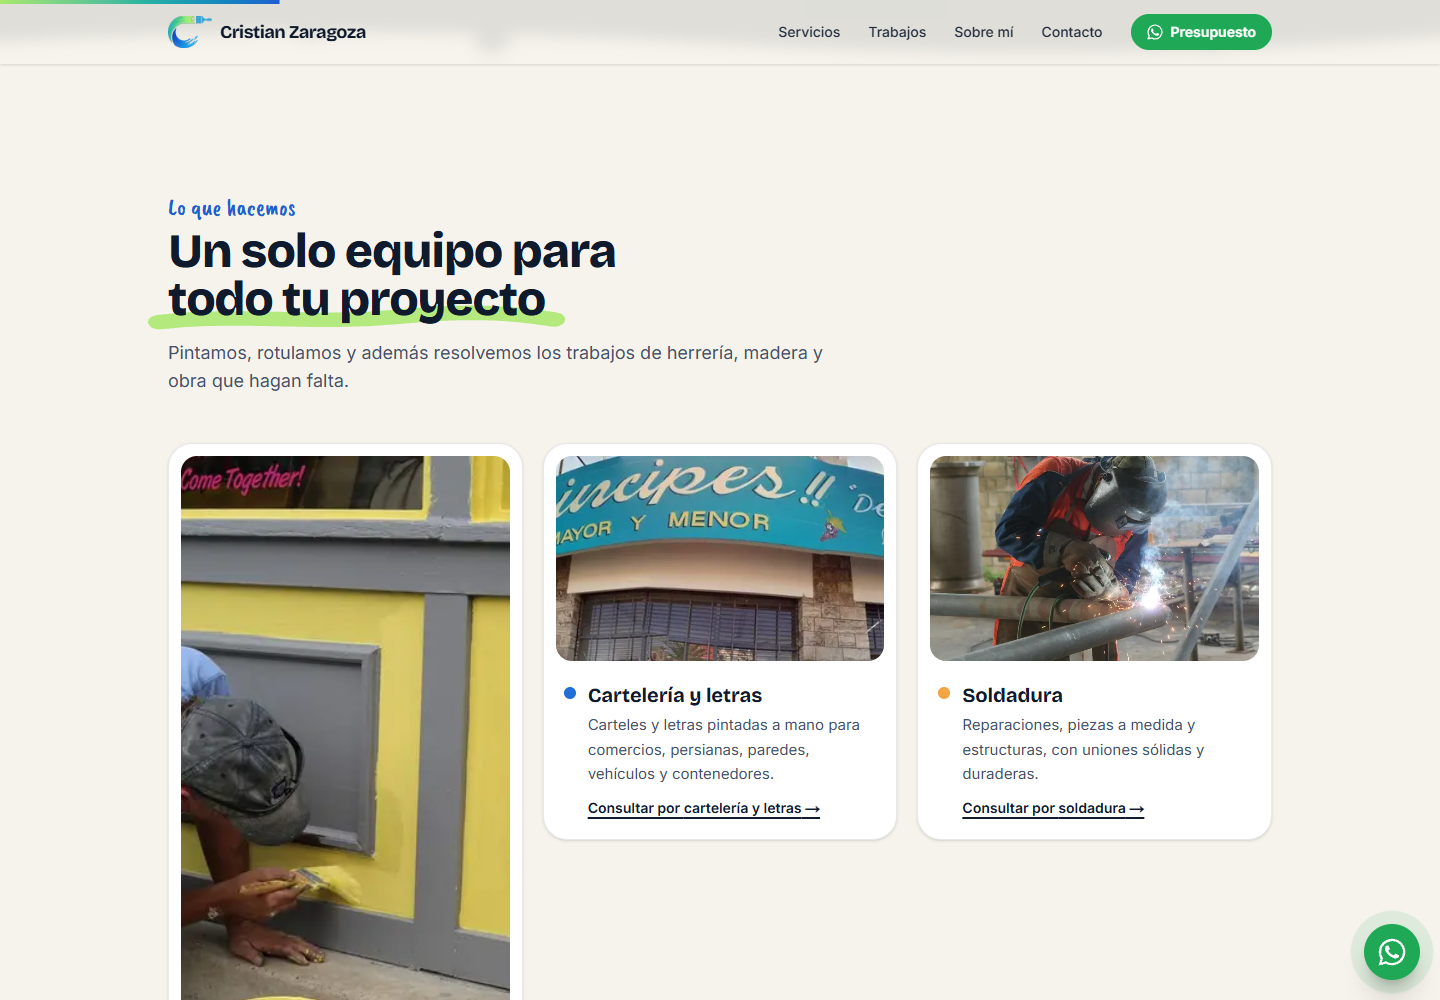
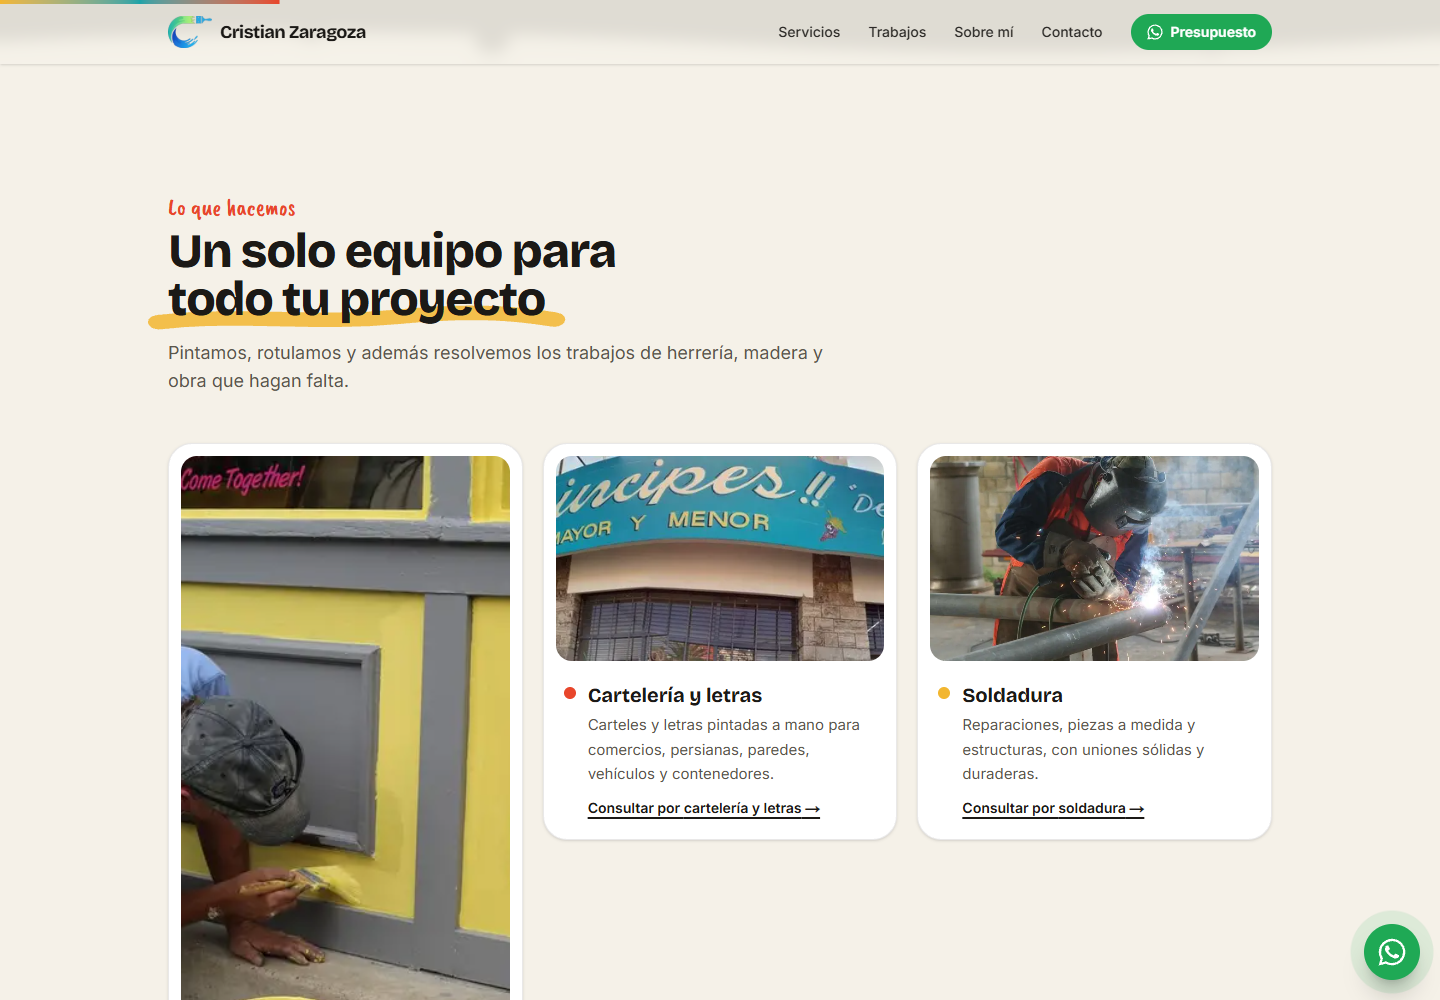
Paleta propia sacada de sus trabajos
- Reemplaza los colores del logo (azul/lima) por los de sus carteles reales:
  esmalte negro, pared hueso, bermellón, amarillo, turquesa y verde
- La portada usa de fondo la pared de Armus CrossFit en lugar de la foto de stock
- Se borran las fotos de stock que ya no se usan
- Imagen Open Graph y capturas del README actualizadas

diff --git a/components/Contacto.tsx b/components/Contacto.tsx
@@ -3,9 +3,9 @@ import { IconoFacebook, IconoInstagram, IconoUbicacion, IconoWhatsapp } from "./
 
 // Colores tomados de sus trabajos reales: pizzería Los 3 Nietos, taller Anchorena, cartel Los Príncipes
 const pasos = [
-  { n: "01", color: "#e8462b", nombre: "Naranja pizzería", titulo: "Escribinos", texto: "Contanos por WhatsApp qué necesitás y, si podés, mandá una foto del lugar." },
-  { n: "02", color: "#f2b630", nombre: "Amarillo taller", titulo: "Presupuesto sin cargo", texto: "Te pasamos el presupuesto sin costo." },
-  { n: "03", color: "#1ba3a8", nombre: "Turquesa cartel", titulo: "Manos a la obra", texto: "Coordinamos el día y nos ponemos a pintar." },
+  { n: "01", color: "var(--color-bermellon)", nombre: "Naranja pizzería", titulo: "Escribinos", texto: "Contanos por WhatsApp qué necesitás y, si podés, mandá una foto del lugar." },
+  { n: "02", color: "var(--color-amarillo)", nombre: "Amarillo taller", titulo: "Presupuesto sin cargo", texto: "Te pasamos el presupuesto sin costo." },
+  { n: "03", color: "var(--color-turquesa)", nombre: "Turquesa cartel", titulo: "Manos a la obra", texto: "Coordinamos el día y nos ponemos a pintar." },
 ];
 
 /** Cinta de pintor pegando el cartel a la pared */
@@ -24,14 +24,14 @@ export default function Contacto() {
         <div data-reveal className="relative">
           <Cinta className="-left-3 -top-3 -rotate-12" />
           <Cinta className="-right-3 -top-3 rotate-12" />
-          <div className="cartel-pintado relative -rotate-1 bg-[#fbf6e9] p-3 shadow-[0_18px_40px_-18px_rgb(15_27_45/0.45)]">
+          <div className="cartel-pintado relative -rotate-1 bg-[#fbf6e9] p-3 shadow-[0_18px_40px_-18px_rgb(27_25_22/0.45)]">
             <div className="border-[3px] border-tinta p-1.5">
               <div className="border border-tinta px-6 py-10 text-center sm:px-10 sm:py-12">
-                <p className="font-pincel text-3xl text-[#e8462b] sm:text-4xl">¿Arrancamos con tu proyecto?</p>
+                <p className="font-pincel text-3xl text-[var(--color-bermellon)] sm:text-4xl">¿Arrancamos con tu proyecto?</p>
                 <h2 className="mt-2 font-display text-4xl font-extrabold uppercase leading-none tracking-tight text-tinta sm:text-6xl">
                   Pedí tu presupuesto
                 </h2>
-                <p className="mt-3 inline-block -rotate-2 bg-[#f2b630] px-4 py-1 font-display text-lg font-extrabold uppercase tracking-wide text-tinta">
+                <p className="mt-3 inline-block -rotate-2 bg-[var(--color-amarillo)] px-4 py-1 font-display text-lg font-extrabold uppercase tracking-wide text-tinta">
                   sin cargo
                 </p>
 
@@ -51,10 +51,10 @@ export default function Contacto() {
                 <div className="mx-auto mt-8 h-px w-2/3 bg-tinta/20" aria-hidden="true" />
 
                 <div className="mt-6 flex flex-wrap items-center justify-center gap-x-6 gap-y-3 text-tinta">
-                  <a href={cliente.instagram} target="_blank" rel="noopener noreferrer" className="inline-flex items-center gap-2 font-medium hover:text-[#e8462b]">
+                  <a href={cliente.instagram} target="_blank" rel="noopener noreferrer" className="inline-flex items-center gap-2 font-medium hover:text-[var(--color-bermellon)]">
                     <IconoInstagram className="h-5 w-5" /> {cliente.instagramUsuario}
                   </a>
-                  <a href={cliente.facebook} target="_blank" rel="noopener noreferrer" className="inline-flex items-center gap-2 font-medium hover:text-[#e8462b]">
+                  <a href={cliente.facebook} target="_blank" rel="noopener noreferrer" className="inline-flex items-center gap-2 font-medium hover:text-[var(--color-bermellon)]">
                     <IconoFacebook className="h-5 w-5" /> Facebook
                   </a>
                   <span className="inline-flex items-center gap-2 font-medium">
@@ -68,14 +68,14 @@ export default function Contacto() {
 
         {/* Los pasos como muestras de color de pinturería */}
         <div>
-          <p data-reveal className="font-pincel text-2xl text-[#e8462b]">Cómo trabajamos</p>
+          <p data-reveal className="font-pincel text-2xl text-[var(--color-bermellon)]">Cómo trabajamos</p>
           <ol className="mt-4 space-y-5">
             {pasos.map((p, i) => (
               <li
                 key={p.n}
                 data-reveal
                 style={{ ["--delay" as string]: `${150 + i * 140}ms`, rotate: `${[-1.2, 0.8, -0.5][i]}deg` }}
-                className="muestra flex overflow-hidden rounded-md bg-white shadow-[0_10px_24px_-14px_rgb(15_27_45/0.5)]"
+                className="muestra flex overflow-hidden rounded-md bg-white shadow-[0_10px_24px_-14px_rgb(27_25_22/0.5)]"
               >
                 <div className="muestra-color relative flex w-24 shrink-0 flex-col justify-between p-3 sm:w-28" style={{ background: p.color }}>
                   <span className="font-display text-2xl font-extrabold text-white/95">{p.n}</span>

diff --git a/components/Portada.tsx b/components/Portada.tsx
@@ -4,17 +4,17 @@ import { IconoUbicacion, IconoWhatsapp, Pincelada } from "./iconos";
 
 // Gotas en los colores del logo que flotan alrededor de la foto
 const gotas = [
-  { c: "var(--color-lima)", x: "-6%", y: "8%", s: 34, d: "0s" },
-  { c: "var(--color-celeste)", x: "92%", y: "18%", s: 24, d: "1.2s" },
+  { c: "var(--color-amarillo)", x: "-6%", y: "8%", s: 34, d: "0s" },
+  { c: "var(--color-turquesa)", x: "92%", y: "18%", s: 24, d: "1.2s" },
   { c: "var(--color-turquesa)", x: "88%", y: "82%", s: 40, d: "2.1s" },
-  { c: "var(--color-azul)", x: "-4%", y: "70%", s: 20, d: "0.6s" },
+  { c: "var(--color-bermellon)", x: "-4%", y: "70%", s: 20, d: "0.6s" },
 ];
 
 export default function Portada() {
   return (
     <section id="inicio" className="relative isolate overflow-hidden bg-tinta pb-28 pt-28 text-white sm:pt-32 lg:pb-36">
       <Image
-        src="/fotos/fondoservicios.webp"
+        src="/fotos/paredArmus.webp"
         alt=""
         fill
         priority
@@ -26,18 +26,18 @@ export default function Portada() {
       <div className="mx-auto grid max-w-6xl items-center gap-14 px-4 sm:px-6 lg:grid-cols-[1.15fr_0.85fr]">
         <div>
           <p data-reveal className="visible mb-5 inline-flex items-center gap-2 rounded-full border border-white/15 bg-white/5 px-3 py-1 text-sm text-white/80">
-            <IconoUbicacion className="h-4 w-4 text-lima" /> {cliente.oficio} en {cliente.zona}
+            <IconoUbicacion className="h-4 w-4 text-amarillo" /> {cliente.oficio} en {cliente.zona}
           </p>
 
           <h1 className="font-display text-4xl font-extrabold leading-[1.05] tracking-tight sm:text-6xl">
-            <span className="letras-a-mano block font-pincel text-6xl font-normal text-lima sm:text-8xl">
+            <span className="letras-a-mano block font-pincel text-6xl font-normal text-amarillo sm:text-8xl">
               {cliente.nombre}
             </span>
             <span className="mt-2 block">
               Pintor{" "}
               <span className="pincelada">
                 profesional
-                <Pincelada color="var(--color-azul)" />
+                <Pincelada color="var(--color-bermellon)" />
               </span>
             </span>
           </h1>
@@ -91,7 +91,7 @@ export default function Portada() {
               <path d="M12 0C12 0 0 14 0 21a12 12 0 0 0 24 0C24 14 12 0 12 0z" fill={g.c} />
             </svg>
           ))}
-          <figure className="rodillo rotate-2 rounded-3xl shadow-2xl shadow-black/50" style={{ ["--rodillo" as string]: "var(--color-lima)" }}>
+          <figure className="rodillo rotate-2 rounded-3xl shadow-2xl shadow-black/50" style={{ ["--rodillo" as string]: "var(--color-amarillo)" }}>
             <Image
               src="/fotos/pintando.webp"
               alt="Cristian delineando letras gigantes sobre la pared de Armus CrossFit"
@@ -104,7 +104,7 @@ export default function Portada() {
           </figure>
           <figure
             className="rodillo absolute -bottom-10 -left-8 w-1/2 -rotate-3 rounded-2xl border-4 border-tinta shadow-xl sm:-left-14"
-            style={{ ["--rodillo" as string]: "var(--color-celeste)", ["--delay" as string]: "350ms" }}
+            style={{ ["--rodillo" as string]: "var(--color-turquesa)", ["--delay" as string]: "350ms" }}
           >
             <Image
               src="/fotos/pizzeria-sm.webp"

diff --git a/components/Galeria.tsx b/components/Galeria.tsx
@@ -5,7 +5,7 @@ import { useCallback, useEffect, useRef, useState } from "react";
 import { categorias, trabajos, type Categoria } from "@/lib/datos";
 import { IconoCerrar, IconoFlecha, Pincelada } from "./iconos";
 
-const coloresRodillo = ["var(--color-turquesa)", "var(--color-azul)", "var(--color-lima)", "var(--color-celeste)"];
+const coloresRodillo = ["var(--color-turquesa)", "var(--color-bermellon)", "var(--color-amarillo)", "var(--color-turquesa)"];
 
 export default function Galeria() {
   const [filtro, setFiltro] = useState<Categoria | "Todos">("Todos");
@@ -44,12 +44,12 @@ export default function Galeria() {
       <div className="mx-auto max-w-6xl px-4 sm:px-6">
         <div data-reveal className="flex flex-col justify-between gap-6 md:flex-row md:items-end">
           <div className="max-w-2xl">
-            <p className="font-pincel text-2xl text-azul">Trabajos realizados</p>
+            <p className="font-pincel text-2xl text-bermellon">Trabajos realizados</p>
             <h2 className="mt-1 font-display text-3xl font-extrabold tracking-tight sm:text-5xl">
               Paredes que{" "}
               <span className="pincelada">
                 venden solas
-                <Pincelada color="var(--color-celeste)" />
+                <Pincelada color="var(--color-turquesa)" />
               </span>
             </h2>
             <p className="mt-4 text-lg text-tinta-suave">
@@ -84,7 +84,7 @@ export default function Galeria() {
                 aria-label={`Ver en grande: ${t.titulo}`}
               >
                 <figure
-                  className="rodillo aspect-[4/3] rounded-2xl ring-azul ring-offset-2 ring-offset-pared group-focus-visible:ring-4"
+                  className="rodillo aspect-[4/3] rounded-2xl ring-bermellon ring-offset-2 ring-offset-pared group-focus-visible:ring-4"
                   style={{
                     ["--rodillo" as string]: coloresRodillo[i % coloresRodillo.length],
                     ["--delay" as string]: `${(i % 3) * 120}ms`,
@@ -99,7 +99,7 @@ export default function Galeria() {
                     className="h-full w-full rounded-2xl object-cover transition duration-700 group-hover:scale-105"
                   />
                   <figcaption className="absolute inset-x-0 bottom-0 z-[1] rounded-b-2xl bg-gradient-to-t from-tinta/85 to-transparent p-4 pt-10 text-white">
-                    <span className="block text-xs uppercase tracking-wider text-lima">{t.categoria}</span>
+                    <span className="block text-xs uppercase tracking-wider text-amarillo">{t.categoria}</span>
                     <span className="font-display font-semibold">{t.titulo}</span>
                   </figcaption>
                 </figure>

diff --git a/app/globals.css b/app/globals.css
@@ -1,15 +1,17 @@
 @import "tailwindcss";
 
-/* Paleta sacada del logo de Cristian: pincel azul, trazo verde-turquesa */
+/* Paleta sacada de sus trabajos reales: esmalte negro de cartel, pared hueso,
+   el naranja de la pizzería, el amarillo del taller Anchorena, el turquesa de Los Príncipes
+   y el verde de la verdulería */
 @theme {
-  --color-pared: #f6f3ec;
-  --color-pared-2: #ece7dc;
-  --color-tinta: #0f1b2d;
-  --color-tinta-suave: #44506a;
-  --color-azul: #1f5fd0;
-  --color-celeste: #22b0e6;
-  --color-turquesa: #2bb5a0;
-  --color-lima: #a8e86b;
+  --color-pared: #f5f1e8;
+  --color-pared-2: #ebe4d6;
+  --color-tinta: #1b1916;
+  --color-tinta-suave: #5a554c;
+  --color-bermellon: #e8462b;
+  --color-amarillo: #f2b630;
+  --color-turquesa: #1ba3a8;
+  --color-verde: #9cbf3b;
   --color-whatsapp: #1fa855;
 
   --font-display: var(--font-bricolage), ui-sans-serif, system-ui, sans-serif;
@@ -29,7 +31,7 @@ body {
 }
 
 ::selection {
-  background: var(--color-lima);
+  background: var(--color-amarillo);
   color: var(--color-tinta);
 }
 
@@ -206,8 +208,8 @@ body {
   inset: 0;
   pointer-events: none;
   background:
-    repeating-linear-gradient(90deg, rgb(15 27 45 / 0.018) 0 3px, transparent 3px 11px),
-    linear-gradient(180deg, rgb(255 255 255 / 0.6), transparent 35%, rgb(15 27 45 / 0.03) 70%, transparent);
+    repeating-linear-gradient(90deg, rgb(27 25 22 / 0.018) 0 3px, transparent 3px 11px),
+    linear-gradient(180deg, rgb(255 255 255 / 0.6), transparent 35%, rgb(27 25 22 / 0.03) 70%, transparent);
 }
 
 /* ---------- Muestras de color: la pintura baja y llena la muestra ---------- */

diff --git a/components/SobreMi.tsx b/components/SobreMi.tsx
@@ -6,7 +6,7 @@ export default function SobreMi() {
   return (
     <section id="sobre-mi" className="mx-auto grid max-w-6xl items-center gap-12 px-4 py-20 sm:px-6 sm:py-28 lg:grid-cols-2">
       <div className="relative order-2 lg:order-1">
-        <figure className="rodillo rounded-3xl" style={{ ["--rodillo" as string]: "var(--color-azul)" }}>
+        <figure className="rodillo rounded-3xl" style={{ ["--rodillo" as string]: "var(--color-bermellon)" }}>
           <Image
             src="/fotos/pareduno.webp"
             alt="Cristian pintando el mural de Espacio Uno"
@@ -18,7 +18,7 @@ export default function SobreMi() {
         </figure>
         <div
           data-reveal
-          className="absolute -bottom-6 right-4 rotate-[-4deg] rounded-2xl bg-lima px-5 py-3 font-pincel text-2xl text-tinta shadow-lg sm:right-8"
+          className="absolute -bottom-6 right-4 rotate-[-4deg] rounded-2xl bg-amarillo px-5 py-3 font-pincel text-2xl text-tinta shadow-lg sm:right-8"
           style={{ ["--delay" as string]: "700ms" }}
         >
           Tradición familiar
@@ -26,7 +26,7 @@ export default function SobreMi() {
       </div>
 
       <div data-reveal className="order-1 lg:order-2">
-        <p className="font-pincel text-2xl text-azul">Sobre mí</p>
+        <p className="font-pincel text-2xl text-bermellon">Sobre mí</p>
         <h2 className="mt-1 font-display text-3xl font-extrabold tracking-tight sm:text-5xl">
           Toda una vida entre{" "}
           <span className="pincelada">

diff --git a/lib/datos.ts b/lib/datos.ts
@@ -40,21 +40,21 @@ export const servicios: Servicio[] = [
     titulo: "Pintura",
     texto: "Interiores, exteriores y frentes de locales. Murales personalizados y revestimientos, siempre con pinturas de calidad.",
     foto: "pinturaServicios",
-    color: "#2bb5a0",
+    color: "#1ba3a8",
   },
   {
     id: "carteleria",
     titulo: "Cartelería y letras",
     texto: "Carteles y letras pintadas a mano para comercios, persianas, paredes, vehículos y contenedores.",
     foto: "cartel",
-    color: "#1f6fd6",
+    color: "#e8462b",
   },
   {
     id: "soldadura",
     titulo: "Soldadura",
     texto: "Reparaciones, piezas a medida y estructuras, con uniones sólidas y duraderas.",
     foto: "soldadorServicios",
-    color: "#f2a541",
+    color: "#f2b630",
   },
   {
     id: "carpinteria",
@@ -68,7 +68,7 @@ export const servicios: Servicio[] = [
     titulo: "Albañilería",
     texto: "Desde pequeñas reparaciones hasta renovaciones y construcciones, en tiempo y forma.",
     foto: "albanilServicios",
-    color: "#8fd16a",
+    color: "#9cbf3b",
   },
 ];
 

diff --git a/components/Encabezado.tsx b/components/Encabezado.tsx
@@ -38,7 +38,7 @@ export default function Encabezado() {
       {/* barra de progreso de lectura, pintada con los colores del logo */}
       <div
         id="progreso"
-        className="progreso-pincel absolute inset-x-0 top-0 h-1 bg-gradient-to-r from-lima via-turquesa to-azul"
+        className="progreso-pincel absolute inset-x-0 top-0 h-1 bg-gradient-to-r from-amarillo via-turquesa to-bermellon"
         aria-hidden="true"
       />
       <div className="mx-auto flex h-16 max-w-6xl items-center justify-between px-4 sm:px-6">
@@ -49,7 +49,7 @@ export default function Encabezado() {
 
         <nav className="hidden items-center gap-7 md:flex" aria-label="Principal">
           {links.map((l) => (
-            <a key={l.href} href={l.href} className="text-sm font-medium opacity-90 transition hover:opacity-100 hover:text-celeste">
+            <a key={l.href} href={l.href} className="text-sm font-medium opacity-90 transition hover:opacity-100 hover:text-turquesa">
               {l.texto}
             </a>
           ))}

diff --git a/components/Pie.tsx b/components/Pie.tsx
@@ -37,11 +37,11 @@ export default function Pie() {
           © {new Date().getFullYear()} {cliente.nombre}
           <br />
           Sitio por{" "}
-          <a href="https://www.linkedin.com/in/facundo-quinteros-125051232" target="_blank" rel="noopener noreferrer" className="underline underline-offset-2 hover:text-azul">
+          <a href="https://www.linkedin.com/in/facundo-quinteros-125051232" target="_blank" rel="noopener noreferrer" className="underline underline-offset-2 hover:text-bermellon">
             Facundo Quinteros
           </a>{" "}
           y{" "}
-          <a href="https://www.linkedin.com/in/lautaro-tomas-lucero-3326b5227" target="_blank" rel="noopener noreferrer" className="underline underline-offset-2 hover:text-azul">
+          <a href="https://www.linkedin.com/in/lautaro-tomas-lucero-3326b5227" target="_blank" rel="noopener noreferrer" className="underline underline-offset-2 hover:text-bermellon">
             Lautaro Lucero
           </a>
         </p>

diff --git a/app/not-found.tsx b/app/not-found.tsx
@@ -4,7 +4,7 @@ export default function NoEncontrado() {
   return (
     <main className="grid min-h-dvh place-items-center bg-tinta px-4 text-center text-white">
       <div>
-        <p className="font-pincel text-7xl text-lima">404</p>
+        <p className="font-pincel text-7xl text-amarillo">404</p>
         <h1 className="mt-2 font-display text-3xl font-bold">Esta pared todavía está sin pintar</h1>
         <p className="mt-3 text-white/70">La página que buscás no existe.</p>
         <Link href="/" className="mt-8 inline-block rounded-full bg-white px-6 py-3 font-semibold text-tinta">

diff --git a/components/Servicios.tsx b/components/Servicios.tsx
@@ -6,7 +6,7 @@ export default function Servicios() {
   return (
     <section id="servicios" className="mx-auto max-w-6xl px-4 py-20 sm:px-6 sm:py-28">
       <div data-reveal className="max-w-2xl">
-        <p className="font-pincel text-2xl text-azul">Lo que hacemos</p>
+        <p className="font-pincel text-2xl text-bermellon">Lo que hacemos</p>
         <h2 className="mt-1 font-display text-3xl font-extrabold tracking-tight sm:text-5xl">
           Un solo equipo para{" "}
           <span className="pincelada">

diff --git a/components/iconos.tsx b/components/iconos.tsx
@@ -48,7 +48,7 @@ export const IconoUbicacion = (p: P) => (
 );
 
 /** Trazo de pincel irregular, usado debajo de palabras destacadas */
-export const Pincelada = ({ color = "var(--color-lima)" }: { color?: string }) => (
+export const Pincelada = ({ color = "var(--color-amarillo)" }: { color?: string }) => (
   <svg viewBox="0 0 200 20" preserveAspectRatio="none" aria-hidden="true">
     <path
       d="M3 13 C 40 6, 80 15, 120 9 S 180 7, 197 11"

diff --git a/app/layout.tsx b/app/layout.tsx
@@ -30,7 +30,7 @@ export const metadata: Metadata = {
   icons: { icon: "/icon.png", apple: "/icon.png" },
 };
 
-export const viewport: Viewport = { themeColor: "#0f1b2d" };
+export const viewport: Viewport = { themeColor: "#1b1916" };
 
 // Datos estructurados para que Google lo muestre como negocio local
 const jsonLd = {
